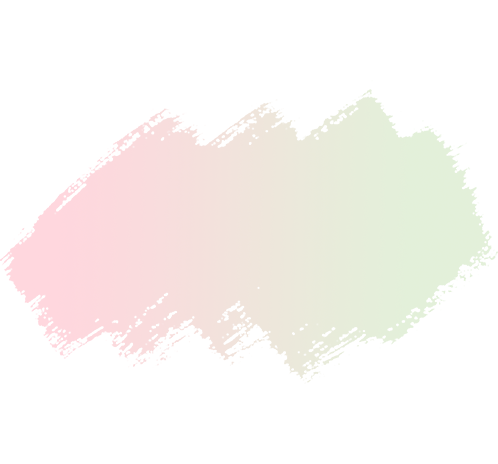
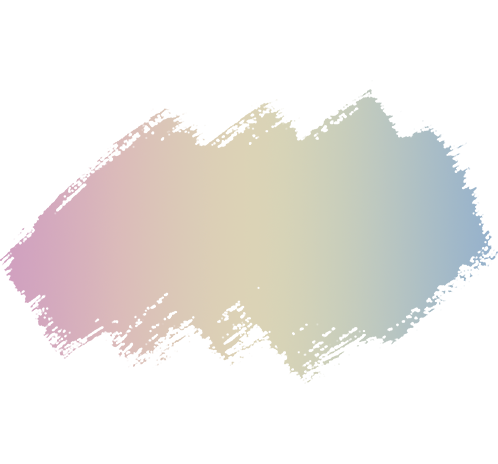
내용 변경 해야함

diff --git a/js/data.js b/js/data.js
@@ -1,15 +1,15 @@
 /*
-0 : Noon to Dusk #ff6e7f, #bfe9ff
-1 : Monte Carlo #cc95c0, #dbd4b4, #7aa1d2
-2 : Nighthawk #2980b9, #2c3e50
-3 : Red ocean #1d4350, #a43931
-4 : Tranquil #eecda3, #ef629f
-5 : Mauve #42275a, #734b6d
-6 : shebert #f79d00, #64f38c
-7 : Roseanna #ffafbd, #ffc3a0
-8 : Wedding Day Blues , #ff8c00,  
-9 : Evening Night #005aa7, #fffde4
-10 : MegaTron #c6ffdd, #fbd786, #f7797d
+0 : virgin #ff6e7f, #bfe9ff
+1 : Noon to Dusk
+2 : Nighthawk #cc95c0, #dbd4b4, #7aa1d2
+3 : Monte Carlo #2980b9, #2c3e50
+4 : Red ocean #1d4350, #a43931
+5 : Tranquil #eecda3, #ef629f
+6 : Mauve #42275a, #734b6d
+7 : shebert #f79d00, #64f38c
+8 : Roseanna #ffafbd, #ffc3a0
+9 : Wedding Day Blues , #ff8c00,  
+10 : Minimal #c6ffdd, #fbd786, #f7797d
 11 : Purple Bliss #360033, #0b8793
 
 */
@@ -116,51 +116,51 @@ const qnaList = [
 
 const infoList = [
   {
-    name: '연애 뭐 식은 죽 먹기죠, 연애 재능 만땅',
+    name: '연애 뭐 식은 죽 먹기죠, 연애 재능 만땅<br><span style ="font-weight:bold">Monte Carlo</span>',
     desc: '연애의 프로재능러인 당신! 연애의 모든 것들을 알고 있어, 쉽게 연애에 성공하는 스타일이랍니다. 주로 포부가 크고 성격이 낙천적인 성향을 가지고 있고, 논리적이면서 두뇌회전이 매우 빠르다고 할 수 있어요. 말재주 또한 좋아 사교성이 좋고 유쾌하지만 화려한 것을 좋아해 허영심을 부리거나 사치를 부리기 때문에 이 점들을 주의해야 돼요. 뛰어난 능력에 자만하는 경우도 종종 있기 때문에 겸손이 필요하답니다! '
   },
   {
-    name: '난 너만 봐, 정직한 연애 스타일',
+    name: '난 너만 봐, 정직한 연애 스타일<br><span style ="font-weight:bold">Purple Bliss</span>',
     desc: '연애 유형의 진국인 당신! 상대방만 바라보는 해바라기 연애 스타일이랍니다. 매사에 끈기가 있어 연애를 할 때 성실하고 진심을 다하는 성향을 가지고, 온화하며 따뜻한 마음을 가지고 있어요. 한 번 좋아하면 끝까지 좋아하는 의리파지만 자존심이 쌔 은근히 고집이 강하답니다. 또한 욱하는 성질이 있어 이런 부분들을 조심해야 하고, 질투심이 많아 사랑이 집착으로 바뀔 수 있어 주의해야 된답니다! '
   },
   {
-    name: '사랑은 쟁취하는 것, 공격적 사랑',
+    name: '사랑은 쟁취하는 것, 공격적 사랑<br><span style ="font-weight:bold">Red Ocean</span>',
     desc: '한 번 좋아하는 사람이 있으면 내 사람으로 만드는 당신! 썸부터 사랑까지 한 번에 직진하는 스타일이랍니다. 연애할 때 주로 이끄는 성향을 가지고 있고, 시원시원한 성격과 유쾌한 성격을 가지고 있어요. 대쪽같은 성격에다 실수를 용납하는 대인배지만 유혹에 약하고 허영때문에 들뜨는 성격이라 다른 이성의 접근에 주의해야 돼요. 또한 내가 한 말로 인해 상대방이 상처를 받을 수 있기 때문에, 항상 말 조심이 필요하답니다!'
   },
   {
-    name: '이건 어때? 난 어때? 독특한 매력',
+    name: '이건 어때? 난 어때? 독특한 매력<br><span style ="font-weight:bold">Noon to Dusk</span>',
     desc: '상대방을 홀리게 만드는 당신! 신비롭고 독특한 매력을 가져, 상대방이 푹 빠지게 만드는 스타일이에요. 직감이 발달되어 손재주가 뛰어난 편이고, 연애할 때 통통 튀는 모습들을 많이 보여준답니다. 유순하고 낙천적인 성향이지만, 자칫잘못하면 상대방에게 천진난만한 아이처럼 보일 수 있는 점을 주의해야 돼요. 또한 감정 기복이 심한 편이라 변덕스러운 마음을 가질 수 있어, 이런 부분들에 신경을 쓴다면 좋은 연애를 할 수 있어요.'
   },
   {
-    name: '결혼은 언제쯤 할까 신혼여행은 어디로?, 이상적인 연애관의 소유자',
+    name: '결혼은 언제쯤 할까 신혼여행은 어디로?, 이상적인 연애관의 소유자<br><span style ="font-weight:bold">Nighthawk</span>',
     desc: '상대방과의 미래를 꿈꾸는 당신! 현실적인 연애보다는, 미래에 대한 이상적인 연애관을 가지고 있어요. 매일매일 사랑하는 사람과 보낼 미래를 생각하기 때문에, 좋은 신랑감이 될 수 있는 자질이 있답니다. 또한 일적으로나 사랑으로나 야망이 커, 크게 성공할 확률이 높고 리더십이 매우 뛰어나답니다. 다만 높은 이상에 비해서 현실이 자신의 마음에 들지 않으면 허세를 부리거나 사람들을 무시하는 경우가 많으니 이점들을 주의하면 좋을 것 같아요!'
   },
   {
-    name: '기념일에 무슨 이벤트 할까, 이벤트 플래너',
+    name: '기념일에 무슨 이벤트 할까, 이벤트 플래너<br><span style ="font-weight:bold">Sherbert</span>',
     desc: '상대방의 기념일을 챙기며 깜짝 놀라게 하는 당신!, 아이디어가 뛰어나고 남다른 감각이 있어, 상대방에게 많은 이벤트를 해주는 스타일이에요. 연애할 때 눈치도 빠르고, 감동을 줄 수 있어 상대방이 매일 행복하답니다. 전체적으로 화려한 연애를 하지만, 은근히 비밀이 많고 우유부단한 성격을 가지고 있답니다. 또한 귀가 매우 얇아 남의 이야기를 곧이 곧대로 믿어, 상대방을 의심하기도 하기 때문에 조심해야 된답니다!'
   },
   {
-    name: '어 오늘 머리 바꿨네 잘 어울린다, 뛰어난 센스',
+    name: '어 오늘 머리 바꿨네 잘 어울린다, 뛰어난 센스<br><span style ="font-weight:bold">Minimal</span>',
     desc: '연애할 때, 센스가 넘쳐나는 당신! 말재주가 뛰어나며 처세술이 뛰어나, 상대방의 호감을 금방 얻는답니다. 낙천적이고 유연한 성격을 가지고 있으며, 구속받는 것을 싫어하는 스타일이에요. 소중한 사람들을 위해 희생할 줄도 알지만, 쾌략 지향적인 경우가 많아 사치와 허영에 물드는 경우가 다반수입니다. 한탕 주의에 빠져 쉽게 망가질 수 있기 때문에 이 점을 주의해야 된답니다!'
   },
   {
-    name: '난 너랑 하는 것들 다 좋아, 순종적인 당신',
+    name: '난 너랑 하는 것들 다 좋아, 순종적인 당신<br><span style ="font-weight:bold">Roseanna</span>',
     desc: '연애할 때 모든 걸 맞춰주려고 하는 당신! 다정한 느낌과 상냥한 모습을 가지고 있어, 상대방 입장에서 편안한 느낌을 받을 수 있답니다. 타오르는 연애보다는 안정적인 연애를 추구하고, 상대방에게 마음을 여는 순간 진심으로 사랑에 푹 빠질 수 있습니다. 또한 강인한 생존력과 수완이 좋으나, 한편으로는 자신이 원하는 바를 모두 쟁취하려는 고집이 있어요. 이 고집이 심해지면 다른 사람 눈에서는 계산적인 사람처럼 보여 매력을 잃을 수 있습니다!'
   },
   {
-    name: '난 당신의 연예인, 끼가 넘치는 재주꾼',
+    name: '난 당신의 연예인, 끼가 넘치는 재주꾼<br><span style ="font-weight:bold">Wedding Blues</span>',
     desc: '지치고 힘들 때 언제나 행복을 주는 당신! 정말 끼가 많고 말재주가 많다보니 팔방미인이라는 소리를 많이 듣는 편이랍니다. 또한 다재다능하고 총명하여 어떤 일이든지 잘할 수 있고, 유머 감각도 뛰어나 주변 사람들이 많이 따르는 마당발 타입입니다. 연애할 때 상대방의 기분을 잘 맞춰주고 즐거운 분위기를 유지하나, 다소 본인의 체면을 중시하는 경향이 있어요. 이 점 때문에 잔머리를 굴리다 타인에게 교활하다는 인상을 주게 될 수도 있기 때문에 조금 조심하면 좋을 것 같아요!'
   },
   {
-    name: '이건 이거고 저건 저거지 , 확실한 공과사',
+    name: '이건 이거고 저건 저거지 , 확실한 공과사<br><span style ="font-weight:bold">Mauve</span>',
     desc: '깔끔한 연애를 추구하며 맺고 끊는 것이 확실한 당신! 단아하고 고고한 이미지를 가지고 있어 우아한 매력을 표출하는 편이랍니다. 집중력과 기억력이 좋아 상대방과 있었던 일들을 다 기억해주는 편이고, 겉으로는 무뚝뚝하나 은근히 감수성이 풍부하답니다. 다만 자신이 생각한 선을 벗어나면 냉소적으로 바뀌고, 평소 직설적인 편이라 차갑다는 인상을 많이 줄 수 있어요. 섬세한 사람이기 때문에 예민한 경우가 많으니 마음을 평안히 다스리고, 상대방에게 좀만 더 따뜻하게 대하면 좋을 것 같아요!'
   },
   {
-    name: '난 네가 좋아 너무 좋아, 애교만땅',
+    name: '난 네가 좋아 너무 좋아, 애교만땅<br><span style ="font-weight:bold">Virgin</span>',
     desc: '애교쟁이 그 자체인 당신! 둥글둥글하게 처세를 잘 하고, 붙임성이 매우 좋아 사교성이 매우 뛰어난 편이랍니다. 또한 궁금한 것을 참지 못해 호기심이 많고, 강아지같이 상대방에게 찰싹 달라붙는 것을 좋아하는 스타일이에요. 성격이 매우 쾌활하나, 감정의 기복이 은근히 심해 상대방이 하는 말에 대해 크게 상처받는 편입니다. 또한 성격이 급한 경우가 많아, 차분하게 행동을 하지 못하는 편이기 때문에 이 점을 좀만 조심하면 좋을 것 같아요! '
   },
   {
-    name: '산은 산이요 연애는 연애로다, 느긋하고 온순',
+    name: '산은 산이요 연애는 연애로다, 느긋하고 온순<br><span style ="font-weight:bold">Tranquil</span>',
     desc: '단아하고 고상한 품격을 가진 당신! 마음을 먹을 때 느긋하게 행동하고, 상대방에 대한 배려가 상당히 많아 온화한 성품을 가지고 있어요. 또한 솔직한 성격으로 신뢰를 받을 수 있는 타입이며, 어떠한 일을 하든 책임감이 강해 무사히 마무리한답니다. 현실적인 성향이 강해 실리를 잘 챙기나, 표현력이 다소 부족해 상대방이 사랑받는다는 감정을 못 느낄수도 있어요. 은근히 질투심이 강하고 고지식한 면이 강해, 누가 자기에게 잘못하면 지구 끝까지 복수 할 수 있을 정도이기 때문에 이 점을 조심해야 한답니다! '
   },
 ]

diff --git a/index.html b/index.html
@@ -57,12 +57,13 @@
       </div>
     </section>
     <section id="result" class="mx-auto my-5 px-3 py-5">
-      <h5>당신의 색깔은</h5>
-      <h3 class="resultName mb-4"></h3>
+      <h3 class="resultName">
+
+      </h3>
       <div id="resultImg" class="col-lg-6 col-md-8 col-sm-10 col-12 mx-auto">
         <img class = "color" src="./img/a.png" alt="your color">
       </div>
-      <div class="resultDesc my-4 mx-4">
+      <div class="resultDesc mb-4 mx-4">
 
       </div>
       <button type="button" class="btn btn-outline-info">공유하기</button>

diff --git a/css/result.css b/css/result.css
@@ -10,6 +10,11 @@
     width: 100%;
 }
 
+.resultName{
+    line-height: 50px;
+}
+
 .resultDesc{
     line-height: 30px;
+    text-align: justify;
 }
